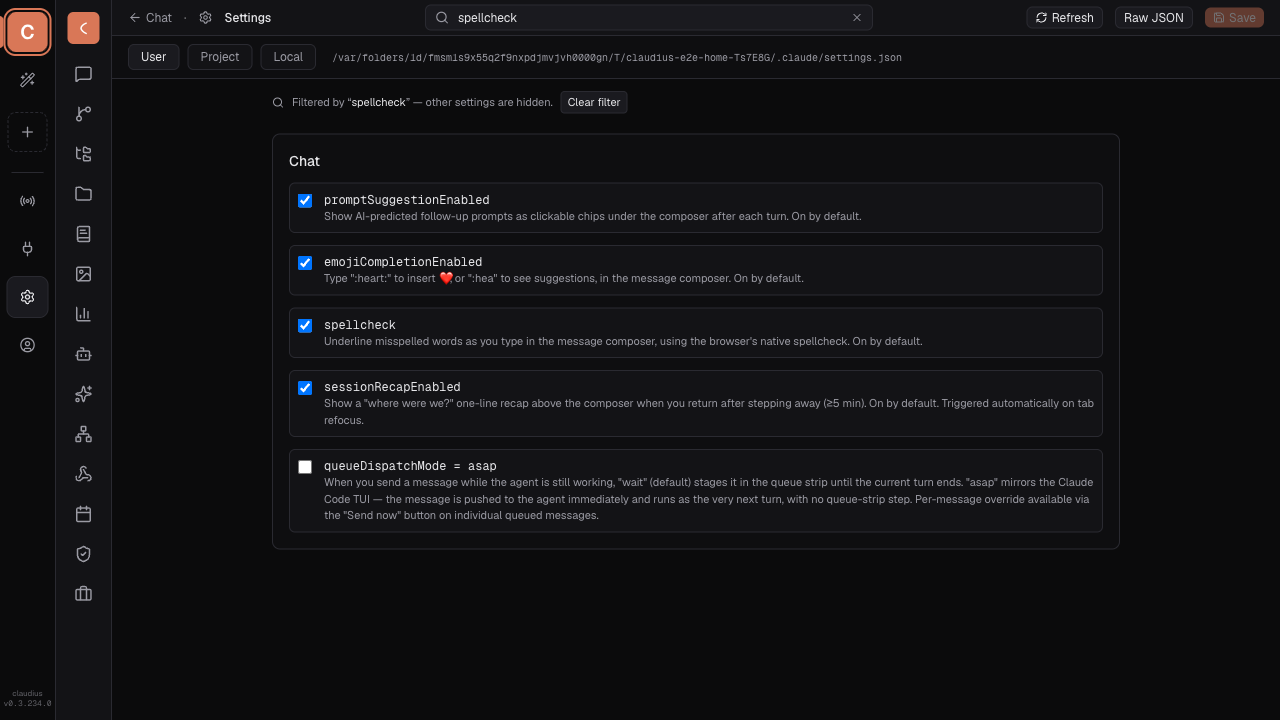
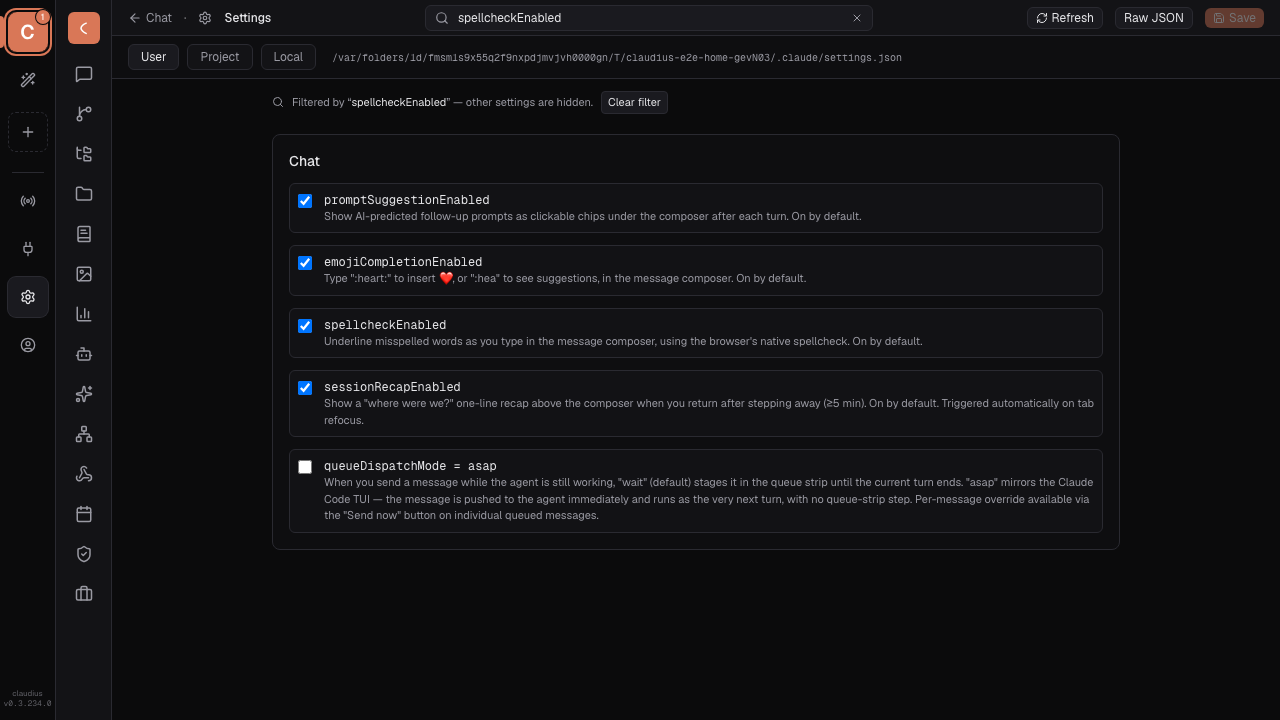
fix(cc-parity): adversarial-review follow-ups for the 2.1.237 bucket-B items
Post-implementation review of the 2.1.237 parity work found two defects
in the just-landed features:

- the spellcheck setting was read under a key the server never wrote, so
  the Settings toggle round-tripped to nothing
- the SlashCommandPicker confidence gate needed the settings/label text
  and the two e2e specs realigned to the corrected keys

Claude produced these edits at the end of the 2.1.237 run but the run
died at the local e2e gate before they could be committed, leaving them
uncommitted on the branch. Committing them here so the work is durable
and the branch reflects the reviewed state.

diff --git a/tests/e2e/cc-parity-2.1.237-settings-spellcheck.spec.ts b/tests/e2e/cc-parity-2.1.237-settings-spellcheck.spec.ts
@@ -5,8 +5,10 @@
  *
  * Claudius reimplements this as a browser-native equivalent: the composer's
  * `<textarea>` already gets free spellcheck from the browser, so this ships
- * as a Settings → Chat toggle (`spellcheck`, mirroring the CLI's key name)
- * wired to the textarea's `spellCheck` DOM attribute — see
+ * as a Settings → Chat toggle (`spellcheckEnabled` — NOT `spellcheck`; the
+ * SDK already owns that key as an object shape in the same
+ * `~/.claude/settings.json`, see `lib/server/settings.ts`) wired to the
+ * textarea's `spellCheck` DOM attribute — see
  * `lib/client/useSpellcheckEnabled.ts` / `components/chat/PromptInput.tsx`.
  *
  * Unlike the CLI, Claudius defaults this ON (absent/true = enabled) since
@@ -45,14 +47,14 @@ async function getJsonWithRetry<T>(page: Page, url: string): Promise<T> {
   throw lastErr;
 }
 
-/** Clear `spellcheck` from the shared dev fixture's user-scope settings. */
+/** Clear `spellcheckEnabled` from the shared dev fixture's user-scope settings. */
 async function clearSpellcheckSetting(page: Page): Promise<void> {
   const cur = await getJsonWithRetry<{ settings: Record<string, unknown> }>(
     page,
     "/api/settings?scope=user",
   );
   const rest = { ...cur.settings };
-  delete rest.spellcheck;
+  delete rest.spellcheckEnabled;
   await page.request.put("/api/settings/full", {
     data: { scope: "user", settings: rest },
   });
@@ -86,12 +88,12 @@ test.describe("CC 2.1.235 — prompt-input spellcheck setting", () => {
     await expect(composer).toHaveAttribute("spellcheck", "true");
   });
 
-  test("spellcheck=false (via the real Settings UI) disables the composer attribute", async ({
+  test("spellcheckEnabled=false (via the real Settings UI) disables the composer attribute", async ({
     page,
   }) => {
     await page.goto("/settings");
-    await page.getByLabel("Search settings").fill("spellcheck");
-    const row = page.locator("label", { hasText: "spellcheck" }).first();
+    await page.getByLabel("Search settings").fill("spellcheckEnabled");
+    const row = page.locator("label", { hasText: "spellcheckEnabled" }).first();
     await expect(row).toBeVisible({ timeout: 15_000 });
 
     // Screenshot in context — full Settings page chrome (side nav, header,
@@ -109,11 +111,11 @@ test.describe("CC 2.1.235 — prompt-input spellcheck setting", () => {
       .poll(
         async () => {
           try {
-            const body = await getJsonWithRetry<{ settings: { spellcheck?: boolean } }>(
+            const body = await getJsonWithRetry<{ settings: { spellcheckEnabled?: boolean } }>(
               page,
               "/api/settings?scope=user",
             );
-            return body.settings.spellcheck;
+            return body.settings.spellcheckEnabled;
           } catch {
             return undefined;
           }

diff --git a/lib/server/settings.ts b/lib/server/settings.ts
@@ -41,16 +41,26 @@ export type ClaudeSettings = {
   // Spellcheck underline in the prompt input (Claude Code 2.1.235: "Added an
   // optional spellcheck setting that underlines misspelled words in the
   // prompt input as you type, using your installed aspell, hunspell, or
-  // ispell"). Mirrors the CLI's key name, but NOT its default — the CLI
-  // defaults this OFF because a terminal has no native spellcheck to fall
-  // back on; Claudius's composer is a real `<textarea>`, which browsers
-  // already spellcheck for free with no code at all. Defaulting this to off
-  // would be a silent regression for every existing user, so here
-  // absent/true = enabled (browser-native spellcheck), false = disabled.
+  // ispell"). Deliberately NOT named `spellcheck` — the SDK already defines
+  // that key as an OBJECT (`{ enabled?, checker?, language?, color? }`, see
+  // `sdk.d.ts` ~L7280) read from the same `~/.claude/settings.json` this
+  // file writes. Reusing the name would let toggling this row silently wipe
+  // (or misread) a user's real CLI spellcheck config the next time they run
+  // `claude` — a boolean here would shadow/clobber that object. `xxxEnabled`
+  // also matches every other composer preference in this file
+  // (`emojiCompletionEnabled`, `promptSuggestionEnabled`, …).
+  //
+  // Also NOT the CLI's default — the CLI defaults its (differently-shaped)
+  // setting OFF because a terminal has no native spellcheck to fall back on;
+  // Claudius's composer is a real `<textarea>`, which browsers already
+  // spellcheck for free with no code at all. Defaulting this to off would be
+  // a silent regression for every existing user, so here absent/true =
+  // enabled (browser-native spellcheck), false = disabled.
+  //
   // Read client-side by `useSpellcheckEnabled` (user scope only — a personal
   // composer preference, same reasoning as `emojiCompletionEnabled`); purely
   // a browser-native attribute toggle, no server/SDK forwarding involved.
-  spellcheck?: boolean;
+  spellcheckEnabled?: boolean;
   // Session recap — the "where were we?" one-liner the client shows when the
   // user returns to a tab after being blurred for ≥5 min. Mirrors the
   // (internal) Claude Code TUI key `awaySummaryEnabled`: `false` disables the

diff --git a/lib/client/useSpellcheckEnabled.ts b/lib/client/useSpellcheckEnabled.ts
@@ -5,15 +5,20 @@ import type { ClaudeSettings } from "@/lib/server/settings";
 
 /**
  * Whether the prompt composer underlines misspelled words as you type, per
- * the user-scope `spellcheck` setting (Claude Code 2.1.235 parity: "Added an
- * optional spellcheck setting that underlines misspelled words in the prompt
- * input as you type").
+ * the user-scope `spellcheckEnabled` setting (Claude Code 2.1.235 parity:
+ * "Added an optional spellcheck setting that underlines misspelled words in
+ * the prompt input as you type"). Named `spellcheckEnabled`, NOT
+ * `spellcheck` — the SDK already owns that key as an object shape in the
+ * same `~/.claude/settings.json`; see the comment on `ClaudeSettings.
+ * spellcheckEnabled` in `settings.ts` for why reusing the name would be a
+ * real (config-destroying) bug, not just a style nit.
  *
- * Unlike the CLI (which defaults this OFF — a terminal has no native
- * spellcheck), Claudius's composer is a real `<textarea>` that browsers
- * already spellcheck for free. Defaulting to `true` (on) preserves that
- * existing behavior instead of silently regressing it; see `settings.ts` and
- * the 2.1.237 run-notes for the full reasoning.
+ * Unlike the CLI (which defaults its own, differently-shaped setting OFF —
+ * a terminal has no native spellcheck), Claudius's composer is a real
+ * `<textarea>` that browsers already spellcheck for free. Defaulting to
+ * `true` (on) preserves that existing behavior instead of silently
+ * regressing it; see `settings.ts` and the 2.1.237 run-notes for the full
+ * reasoning.
  *
  * Defaults to `true` until the fetch resolves, matching the setting's
  * "absent or true = enabled" contract — same optimistic-default shape as
@@ -35,7 +40,7 @@ export function useSpellcheckEnabled(cwd: string | null): boolean {
       .then(async (res) => {
         if (!res.ok) return;
         const data = (await res.json()) as { settings: ClaudeSettings };
-        setEnabled(data.settings.spellcheck !== false);
+        setEnabled(data.settings.spellcheckEnabled !== false);
       })
       .catch((err: unknown) => {
         if (err instanceof DOMException && err.name === "AbortError") return;

diff --git a/app/settings/page.tsx b/app/settings/page.tsx
@@ -196,7 +196,7 @@ export default function SettingsPage() {
 
   // Chat's card guard is a flat OR across all its rows' keywords.
   const sChat = show(
-    "chat promptsuggestionenabled prompt suggestion follow-up chips composer emojicompletionenabled emoji shortcode autocomplete heart spellcheck spelling underline misspelled",
+    "chat promptsuggestionenabled prompt suggestion follow-up chips composer emojicompletionenabled emoji shortcode autocomplete heart spellcheckenabled spellcheck spelling underline misspelled",
   );
   const sEnv = show("environment env variables key value");
   const sPlugins = show("plugins enabled plugin marketplace");
@@ -712,9 +712,9 @@ export default function SettingsPage() {
                     description='Type ":heart:" to insert ❤, or ":hea" to see suggestions, in the message composer. On by default.'
                   />
                   <ToggleRow
-                    label="spellcheck"
-                    checked={draft.spellcheck !== false}
-                    onChange={(b) => update({ spellcheck: b ? undefined : false })}
+                    label="spellcheckEnabled"
+                    checked={draft.spellcheckEnabled !== false}
+                    onChange={(b) => update({ spellcheckEnabled: b ? undefined : false })}
                     description="Underline misspelled words as you type in the message composer, using the browser's native spellcheck. On by default."
                   />
                   <ToggleRow
@@ -917,7 +917,7 @@ const KNOWN_KEYS = new Set([
   "autoMemoryDirectory",
   "promptSuggestionEnabled",
   "emojiCompletionEnabled",
-  "spellcheck",
+  "spellcheckEnabled",
   "sessionRecapEnabled",
   "queueDispatchMode",
   "claudeMdExcludes",

diff --git a/tests/e2e/cc-parity-2.1.237-slash-picker-typo.spec.ts b/tests/e2e/cc-parity-2.1.237-slash-picker-typo.spec.ts
@@ -15,7 +15,11 @@
  * Fixed with `isConfidentSlashMatch` (`lib/shared/slash-commands.ts`): Enter
  * only auto-completes when the top match is a prefix of the command's name
  * or one of its aliases. Tab (an explicit "insert the suggestion" gesture)
- * still uses the looser fuzzy ranking, unchanged.
+ * still uses the looser fuzzy ranking, unchanged. A non-confident Enter is
+ * fully swallowed (preventDefault + stopPropagation) rather than left to
+ * fall through to the textarea's default behavior — the first cut of this
+ * fix let it fall through, which inserted a stray literal newline into the
+ * composer instead of doing nothing; caught in adversarial review.
  *
  * Screenshot target: docs/cc-parity/2.1.237/slash-picker-typo.png
  */
@@ -64,10 +68,12 @@ test.describe("CC 2.1.236 — SlashCommandPicker Enter no longer auto-completes 
     await composer.press("Enter");
     await page.waitForTimeout(200);
 
-    const value = await composer.inputValue();
-    // Never silently rewritten to a real command like "/cost ".
-    expect(value).not.toBe("/cost ");
-    expect(value.startsWith("/cs")).toBe(true);
+    // Exact match, not just a prefix check — this is what would have caught
+    // the stray-newline regression found in adversarial review (a looser
+    // `value.startsWith("/cs")` assertion passes for "/cs", "/cs\n", or
+    // "/cscost " alike). Enter is fully swallowed: no autocomplete, no
+    // newline, the typed text is untouched.
+    expect(await composer.inputValue()).toBe("/cs");
   });
 
   test("typing a real command's prefix and pressing Enter still auto-completes it", async ({

diff --git a/components/chat/SlashCommandPicker.tsx b/components/chat/SlashCommandPicker.tsx
@@ -121,6 +121,20 @@ export function SlashCommandPicker({ value, sdkSlashCommands, sdkSkills, sdkRich
         // 2.1.217 parity).
         e.stopPropagation();
         onSelect(visible[hi].name);
+      } else if (e.key === "Enter" && filter !== "") {
+        // Enter with the picker open but no confident match. Without this
+        // branch, the keydown falls through unhandled: PromptInput's own
+        // Enter-submit is gated on `!pickerOpen` (still true here) so it
+        // no-ops too, and the browser's default textarea behavior inserts a
+        // literal newline into the composer — a confusing regression this
+        // fix is supposed to prevent, not reintroduce in a different shape.
+        // Swallow the keystroke instead: no autocomplete, no stray newline,
+        // picker stays open so the user can see why nothing happened and
+        // keep refining the query (matches the CC intent of "reports it"
+        // over "silently runs the closest match", without adding a new
+        // inline-error affordance for what's a rare typo case).
+        e.preventDefault();
+        e.stopPropagation();
       } else if (e.key === "Escape") {
         e.stopPropagation();
         onClose();
